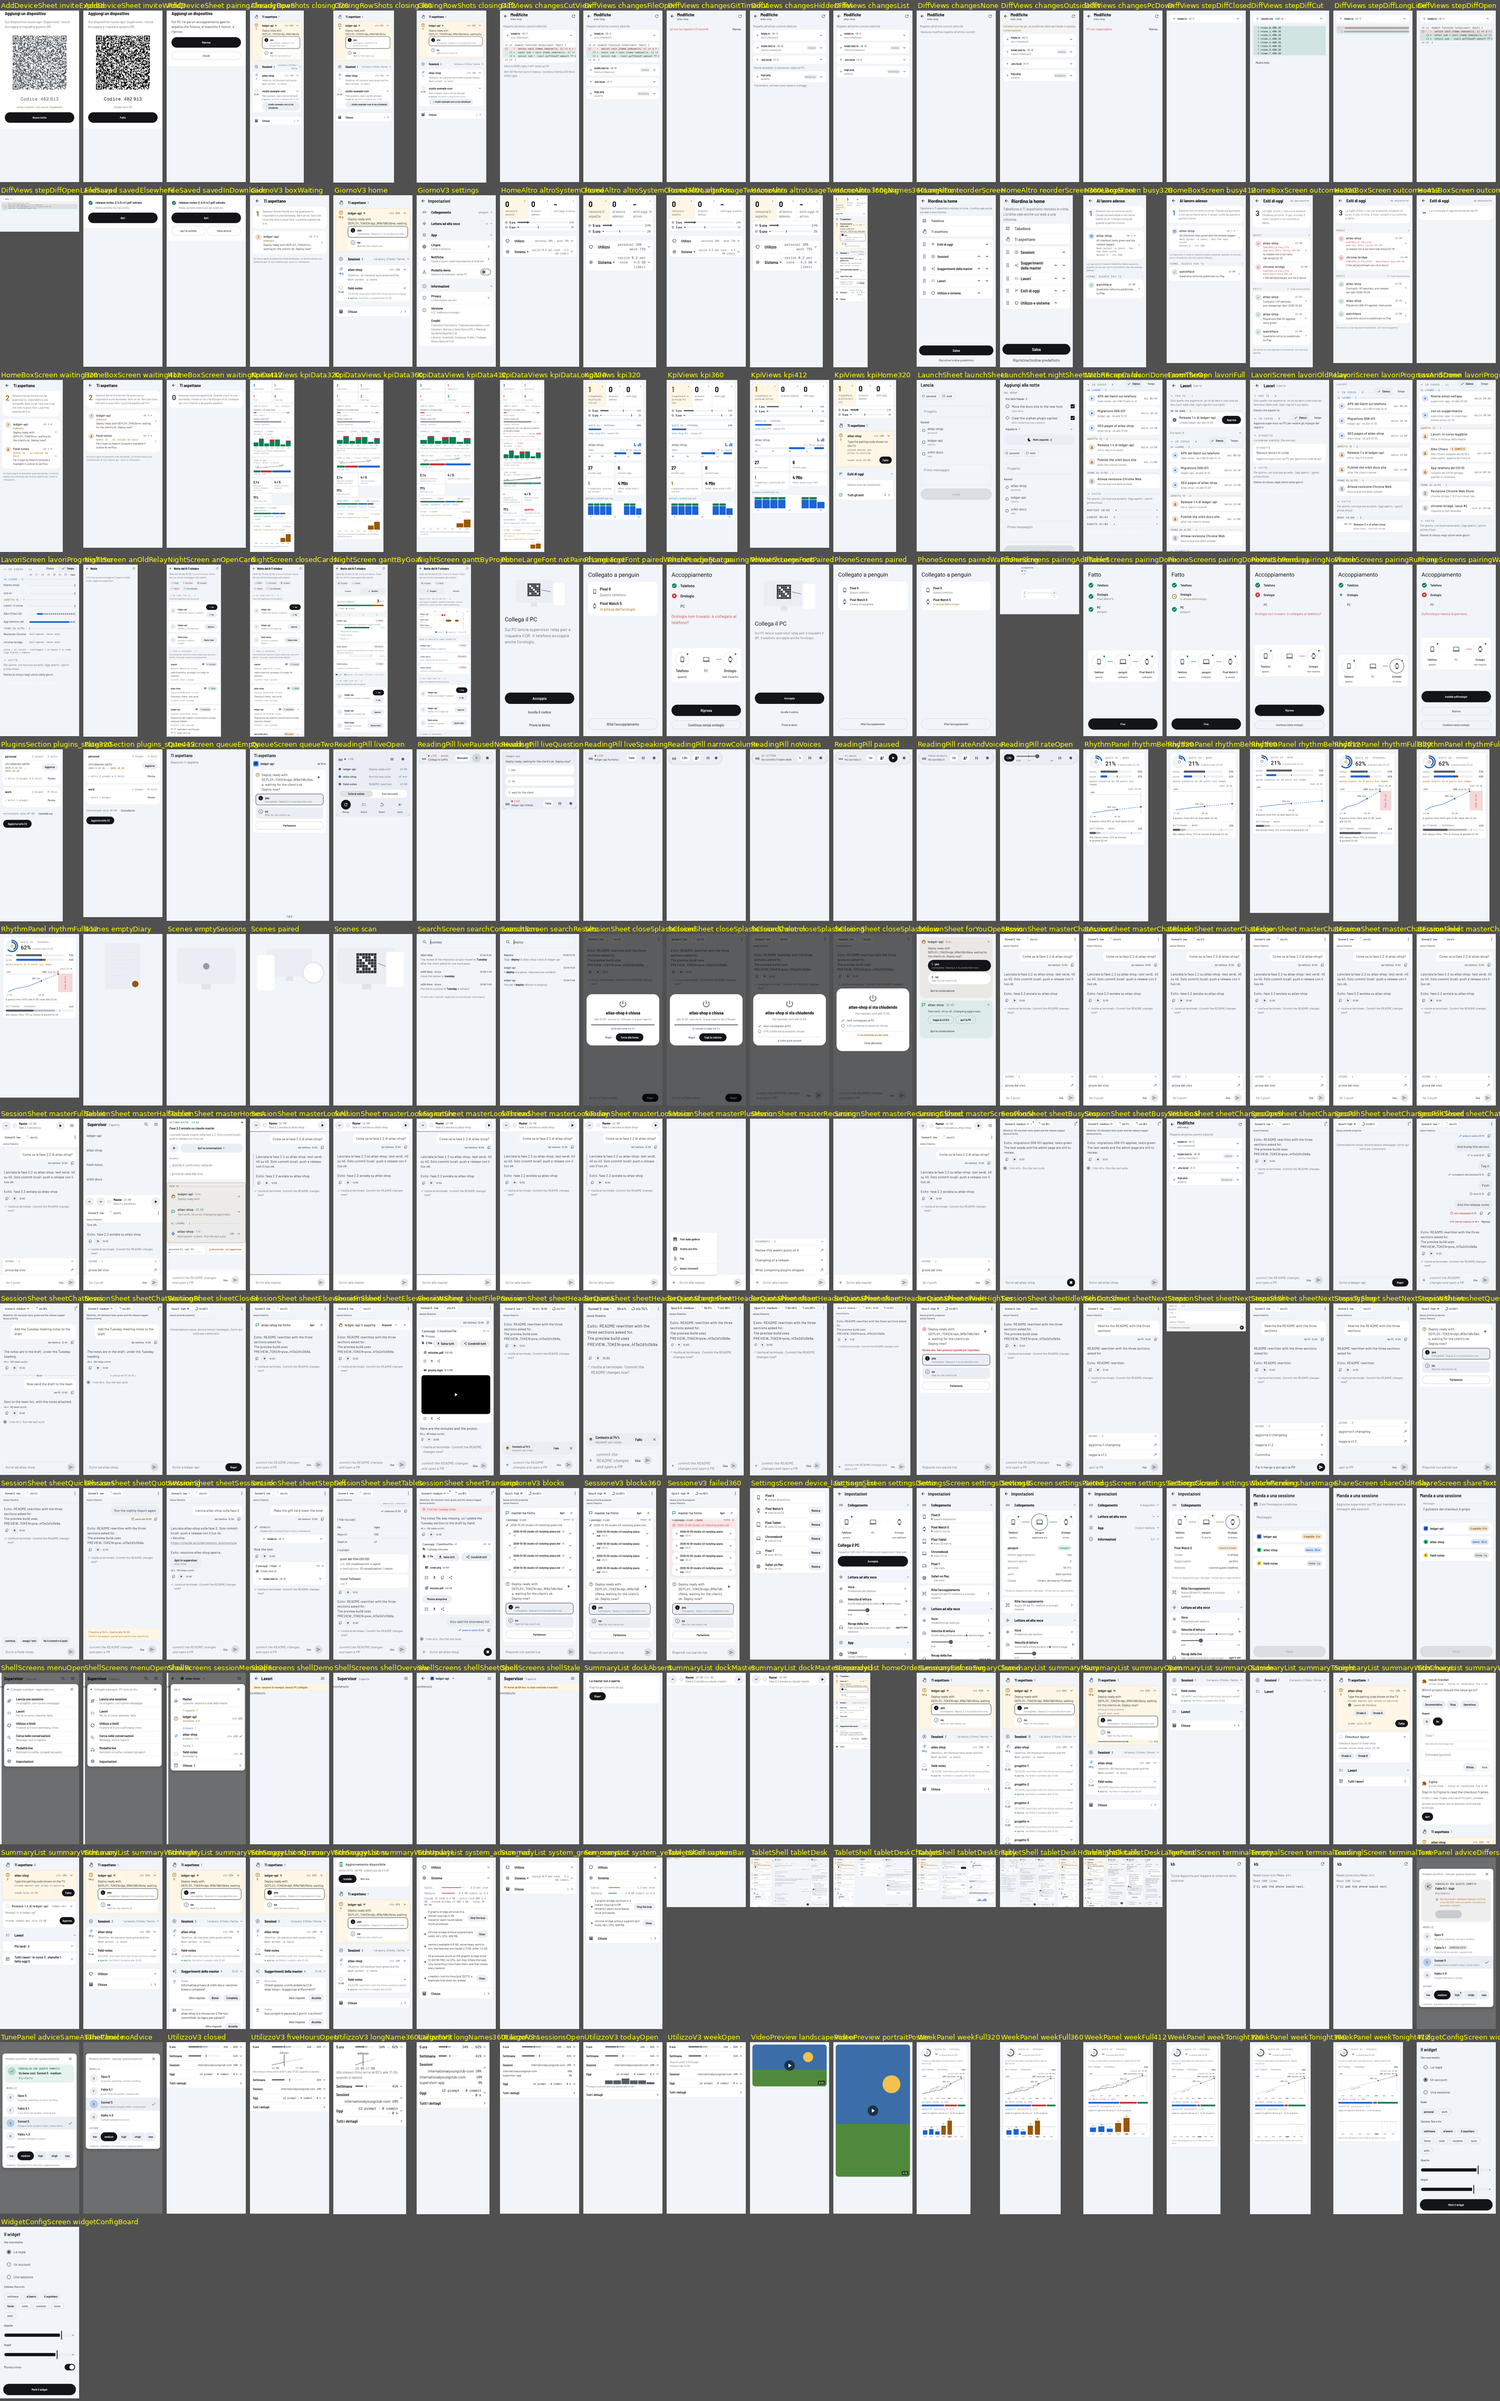
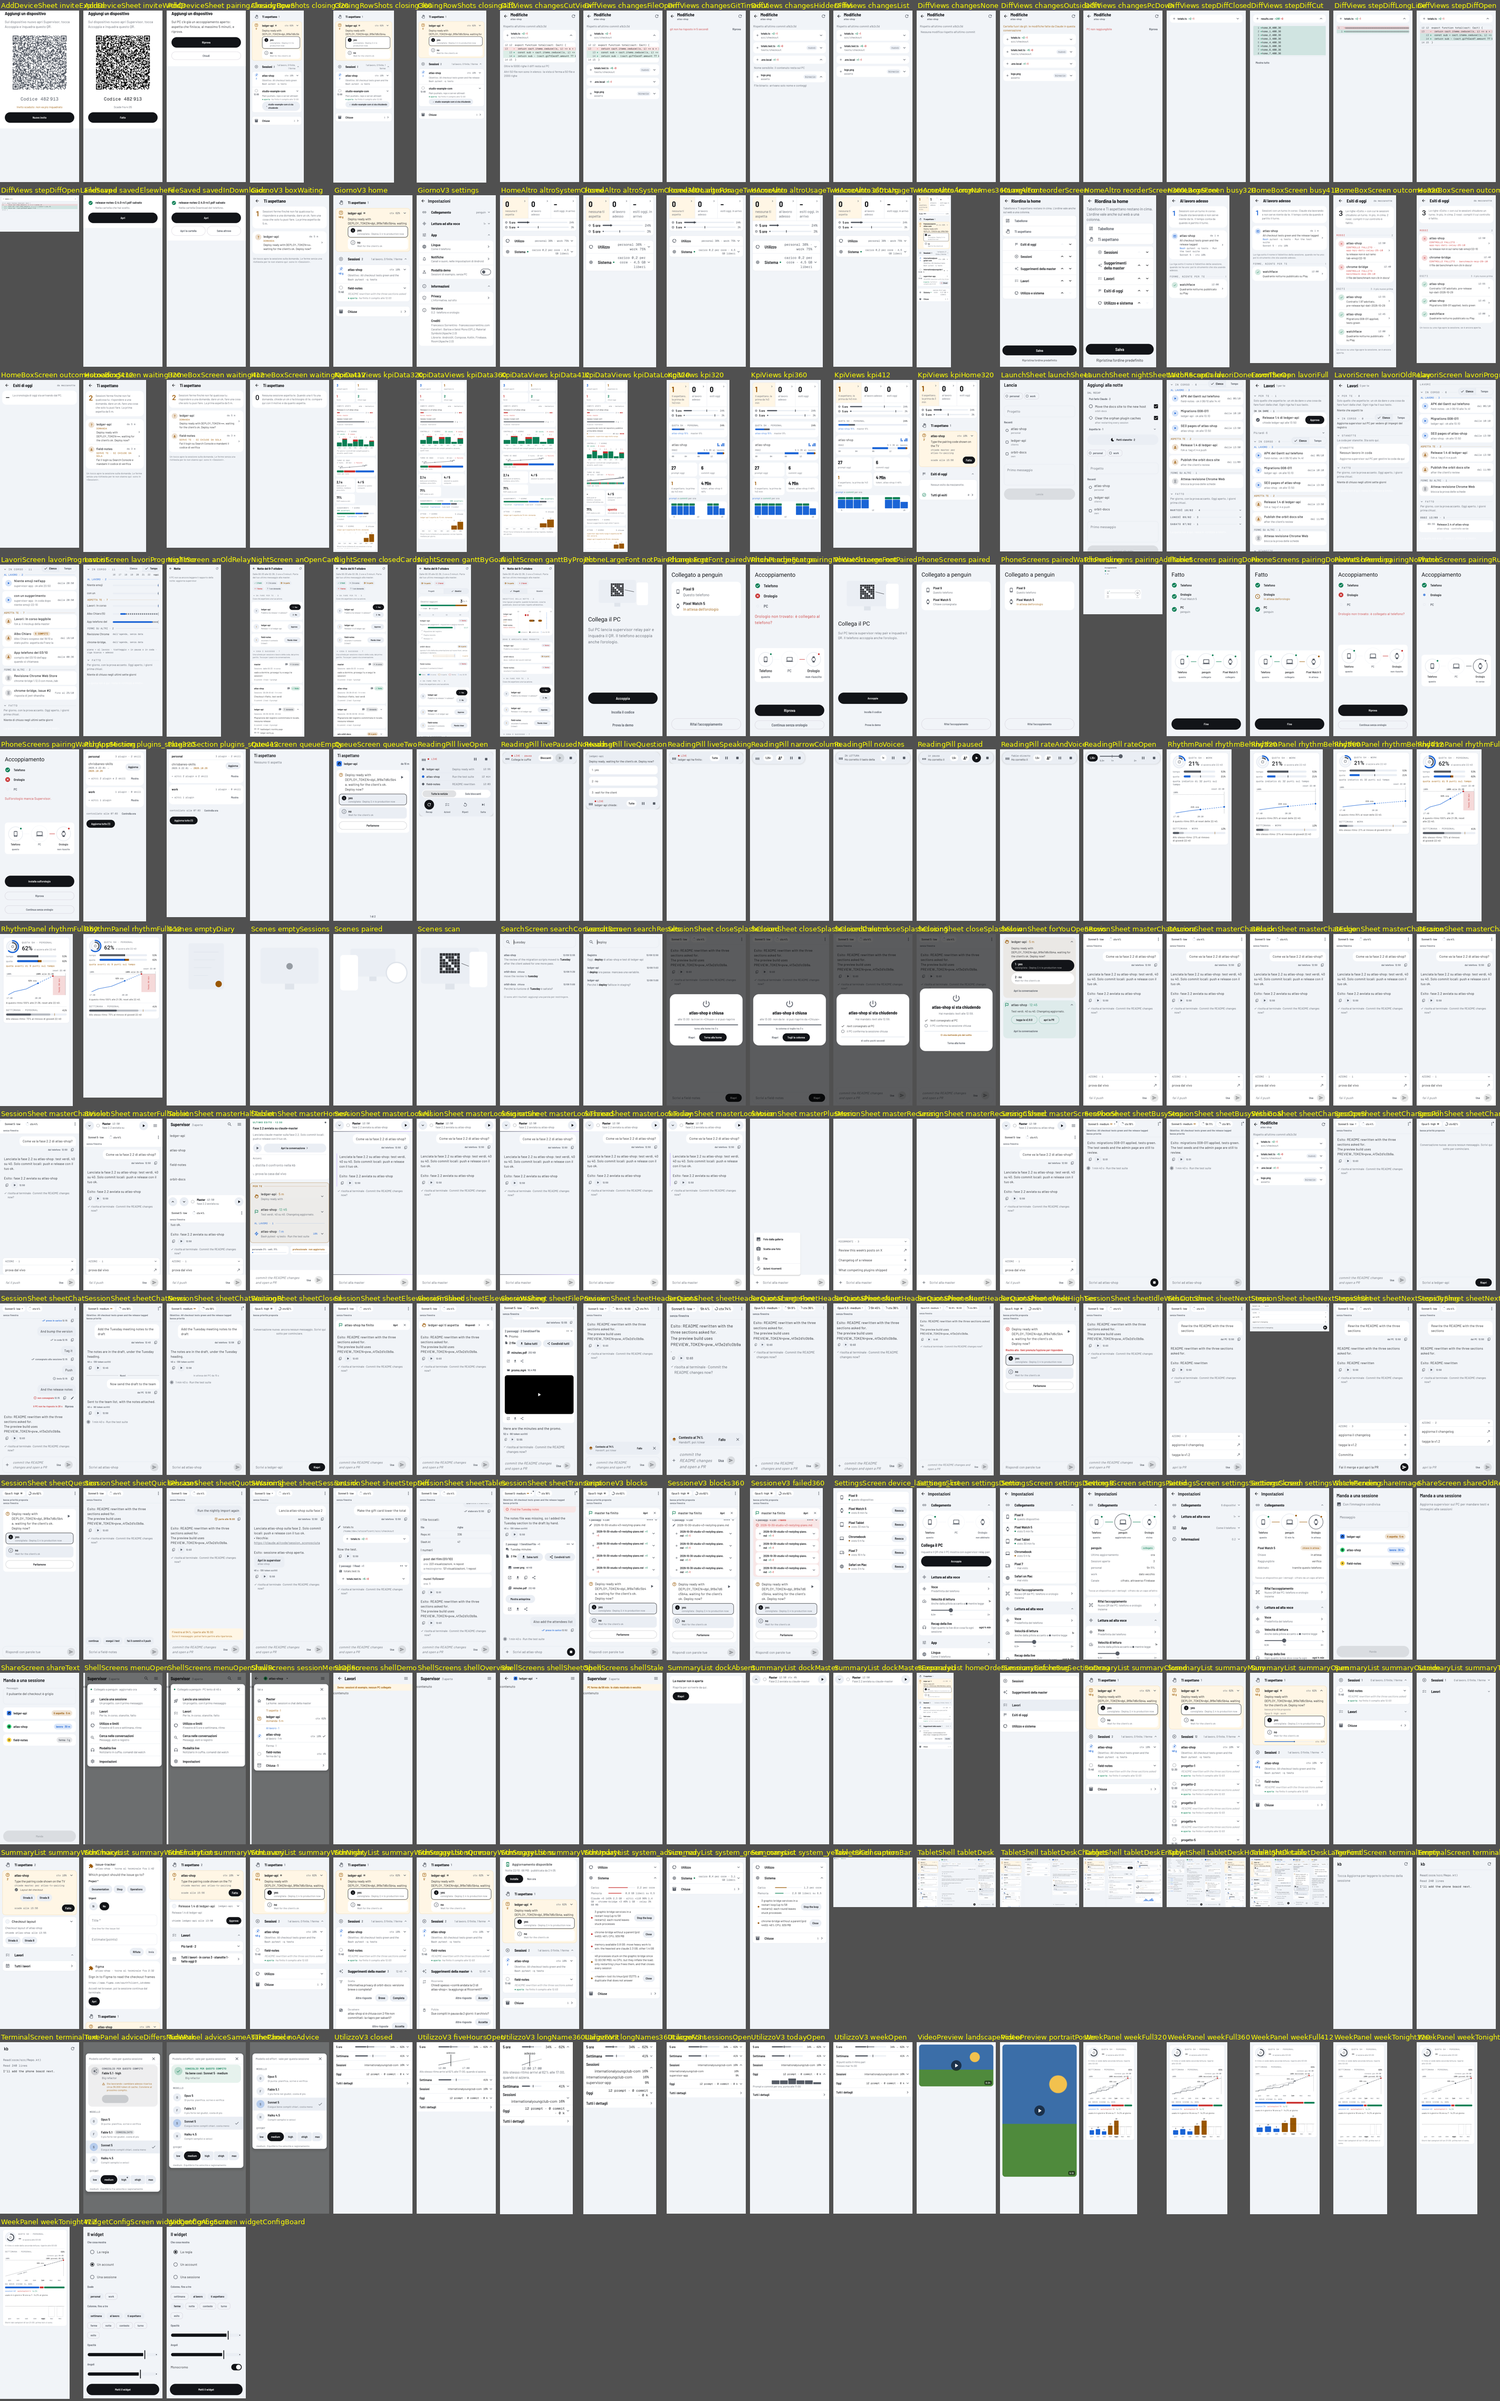
fix(phone,web): closed summaries of Work and System on one line, section arrow aligned (app-tutto-v3-30-10)

diff --git a/web/src/lib/t.ts b/web/src/lib/t.ts
@@ -144,7 +144,7 @@ const it = {
   // In corso per chi deve muoversi (mockup della master approvato da Franz il 22/10 alle 21:16).
   lavoriWorking: 'Al lavoro', lavoriWaitsYou: 'Aspetta te', lavoriOthers: 'Fermi su altri', lavoriNTasks: (n: number) => `${n} compiti`, lavoriSinceAt: (h: string) => `dalle ${h}`, lavoriSinceOn: (d: string) => `dal ${d}`, lavoriUntil: (d: string) => `fino al ${d}`,
   lavoriViewList: 'Elenco', lavoriViewTime: 'Tempo', lavoriAgendaNoDate: "dall'agenda, senza data", lavoriTimeKey: 'piena = al lavoro · tratteggio = in pausa o in coda · riga bianca = adesso',
-  lavoriOldRelay: 'Aggiorna supervisor sul PC per vedere gli impegni del registro', lavoriHomeLine: (a: number, b: number, c: number) => `Tutti i lavori · in corso ${a} · stanotte ${b} · fatto oggi ${c}`, lavoriAll: 'Tutti i lavori',
+  lavoriOldRelay: 'Aggiorna supervisor sul PC per vedere gli impegni del registro', lavoriHomeLine: (a: number, b: number, c: number) => `${a} in corso · ${b} notte · ${c} oggi`, lavoriAll: 'Tutti i lavori',
   lavoriDonePrompt: (reason: string, task: string) => `Fatto: ${reason}. Riprendi ${task}`,
   homeCommitments: 'Impegni', commitApprovedAt: (h: string) => `approvato alle ${h}`, commitAwaiting: 'aspetta il tuo ok', commitIdle: (x: string) => `fermo da ${x}`, commitYourTurn: 'tocca a te', commitTurn: (s: string) => `tocca a ${s}`, commitPaused: (r: string) => `in pausa: ${r}`, commitStalled: 'fermo', commitNext: 'Prossimo', commitCheckRed: 'ultimo controllo rosso',
   // Lo stile «Studio e Diretta» (app-home-riordino-29-10, 30/10): la colonna dei minuti, il riepilogo delle sessioni, la riga
@@ -163,7 +163,7 @@ const it = {
   deskWorkSub: (busy: number, still: number, tasks: number | null) => [busy || still ? `${busy} ${busy === 1 ? 'sessione' : 'sessioni'} al lavoro${still ? `, ${still} ${still === 1 ? 'ferma' : 'ferme'}` : ''}` : 'nessuna sessione aperta', tasks != null ? `${tasks} ${tasks === 1 ? 'compito' : 'compiti'} in corso` : null].filter(Boolean).join('; '),
   homeSessionsLine: (busy: number, finished: number, still: number) => [busy && `${busy} al lavoro`, finished && `${finished} ${finished === 1 ? 'ha finito' : 'hanno finito'}`, still && `${still} ${still === 1 ? 'ferma' : 'ferme'}`].filter(Boolean).join(', '),
   homeNightRow: (queued: number, done: number | null, total: number | null) => `${queued ? `${queued} in coda` : 'Coda vuota'}${done != null && total ? `; ieri ${done} finiti su ${total}` : ''}`,
-  homeLastAt: (h: string) => `ultimo alle ${h}`, homeEsitiLine: (n: number, h: string) => `${n} · ultimo alle ${h}`, homeEsitiRed: (n: number) => `${n} falliti`,
+  lavoriAll: 'Tutti i lavori', homeLastAt: (h: string) => `ultimo alle ${h}`, homeEsitiLine: (n: number, h: string) => `${n} · ultimo alle ${h}`, homeEsitiRed: (n: number) => `${n} falliti`,
   homeWaiting: 'Ti aspettano', homeOutcomes: 'Esiti di oggi', homeAllOutcomes: 'Tutti gli esiti', homeMoreRed: (n: number) => (n === 1 ? '1 rosso in più' : `${n} rossi in più`), tonightEmpty: 'Stanotte · 0 in coda', weekShort: 'sett.', tokensShort: (n: string) => `${n} token`, homeNight: 'Notte', homeSessions: 'Sessioni', homeUsage: 'Utilizzo', homeRecap: 'Recap', recapActions: (n: number) => `Azioni · ${n}`, recapFrom: (d: string) => `recap ${d}`.trim(),
   recapSendTitle: 'Mandare questa azione?', recapSendFromRecap: (d: string, p: string) => `Dal recap del ${d} di ${p}`, recapSendFromSession: (s: string) => `Da ${s}`,
   recapSendToSession: 'la sessione aperta sul progetto', recapSendToMaster: 'il progetto non ha una sessione aperta', recapSend: 'Manda', recapSendToMasterAgenda: 'che lo fa partire', recapSendFromAgenda: "Dall'agenda, un lavoro che può fare Claude",
@@ -542,7 +542,7 @@ const en: typeof it = {
   lavoriProofCheck: 'check green', lavoriProofFailed: 'check red', lavoriProofCancelled: 'cancelled', lavoriDoneEmpty: 'Nothing closed in the last seven days', lavoriQuotaNote: 'The quota is not here: it stays in «Usage and limits».',
   lavoriWorking: 'Working', lavoriWaitsYou: 'Waits for you', lavoriOthers: 'Blocked by others', lavoriNTasks: (n: number) => `${n} tasks`, lavoriSinceAt: (h: string) => `since ${h}`, lavoriSinceOn: (d: string) => `since ${d}`, lavoriUntil: (d: string) => `until ${d}`,
   lavoriViewList: 'List', lavoriViewTime: 'Time', lavoriAgendaNoDate: 'from the agenda, no date', lavoriTimeKey: 'solid = working · dashes = paused or queued · white line = now',
-  lavoriOldRelay: "Update supervisor on the PC to see the registry's commitments", lavoriHomeLine: (a: number, b: number, c: number) => `All the work · in progress ${a} · tonight ${b} · done today ${c}`, lavoriAll: 'All the work',
+  lavoriOldRelay: "Update supervisor on the PC to see the registry's commitments", lavoriHomeLine: (a: number, b: number, c: number) => `${a} running · ${b} tonight · ${c} today`, lavoriAll: 'All the work',
   lavoriDonePrompt: (reason: string, task: string) => `Done: ${reason}. Resume ${task}`,
   homeCommitments: 'Commitments', commitApprovedAt: (h: string) => `approved at ${h}`, commitAwaiting: 'waits for your ok', commitIdle: (x: string) => `idle for ${x}`, commitYourTurn: 'your turn', commitTurn: (s: string) => `${s}'s turn`, commitPaused: (r: string) => `paused: ${r}`, commitStalled: 'stalled', commitNext: 'Next', commitCheckRed: 'last check red',
   railSpan: (s: { n: number; unit: 'min' | 'h' | 'd' }) => (s.unit === 'min' ? `${s.n}'` : s.unit === 'h' ? `${s.n} h` : `${s.n} d`),
@@ -557,7 +557,7 @@ const en: typeof it = {
   deskWorkSub: (busy: number, still: number, tasks: number | null) => [busy || still ? `${busy} ${busy === 1 ? 'session' : 'sessions'} working${still ? `, ${still} idle` : ''}` : 'no open sessions', tasks != null ? `${tasks} ${tasks === 1 ? 'task' : 'tasks'} in progress` : null].filter(Boolean).join('; '),
   homeSessionsLine: (busy: number, finished: number, still: number) => [busy && `${busy} working`, finished && `${finished} finished`, still && `${still} idle`].filter(Boolean).join(', '),
   homeNightRow: (queued: number, done: number | null, total: number | null) => `${queued ? `${queued} queued` : 'Queue empty'}${done != null && total ? `; last night ${done} of ${total} done` : ''}`,
-  homeLastAt: (h: string) => `last at ${h}`, homeEsitiLine: (n: number, h: string) => `${n} · last at ${h}`, homeEsitiRed: (n: number) => `${n} failed`,
+  lavoriAll: 'All the work', homeLastAt: (h: string) => `last at ${h}`, homeEsitiLine: (n: number, h: string) => `${n} · last at ${h}`, homeEsitiRed: (n: number) => `${n} failed`,
   homeWaiting: 'Waiting for you', homeOutcomes: 'Outcomes today', homeAllOutcomes: 'All outcomes', homeMoreRed: (n: number) => `${n} more red`, tonightEmpty: 'Tonight · 0 queued', weekShort: 'week', tokensShort: (n: string) => `${n} tokens`, homeNight: 'Night', homeSessions: 'Sessions', homeUsage: 'Usage', homeRecap: 'Recap', recapActions: (n: number) => `Actions · ${n}`, recapFrom: (d: string) => `recap ${d}`.trim(),
   recapSendTitle: 'Send this action?', recapSendFromRecap: (d: string, p: string) => `From the ${d} recap of ${p}`, recapSendFromSession: (s: string) => `From ${s}`,
   recapSendToSession: 'the session open on the project', recapSendToMaster: 'the project has no open session', recapSend: 'Send', recapSendToMasterAgenda: 'which starts it', recapSendFromAgenda: 'From the agenda, work Claude can do',

diff --git a/mobile/src/test/kotlin/it/pixelbox/cmwatch/mobile/HomeAltroTest.kt b/mobile/src/test/kotlin/it/pixelbox/cmwatch/mobile/HomeAltroTest.kt
@@ -21,7 +21,7 @@ class HomeAltroTest {
     private val st = ContractJson.decodeState(File("../contract/state-2-idle.json").readText()).let { it.copy(sessions = emptyList(), approvals = emptyList()) }
     private val system = SystemStatus(at = st.ts, cores = 8, load1 = 2.0, loadPerCore = 0.2, memTotalMb = 16000, memAvailableMb = 4600, level = "green", loadLevel = "green", memLevel = "green")
 
-    private fun shot() = paparazzi.snapshot {
+    private fun shot(st: it.pixelbox.cmwatch.contract.State = this.st) = paparazzi.snapshot {
         CmPhoneTheme(still = true) {
             SummaryList(Summary.build(st, emptyList(), emptyList(), st.ts, ZoneId.of("Europe/Rome"), emptySet()), {}, { _, _ -> }, { _, _ -> }, {}, {}, now = st.ts, usage = { Text("") }, system = system, kpiState = st)
         }
@@ -54,7 +54,7 @@ class HomeAltroTest {
     @Test fun altroSystemClosed() = shot()
 
     /** Titoli liberi e blocco insieme: le frecce sulla stessa verticale (Franz 31/10 01:14). */
-    @Test fun altroUsageTwoAccountsArrowsAligned() = shot()
+    @Test fun altroUsageTwoAccountsArrowsAligned() = shot(ContractJson.decodeState(File("../contract/state-2-idle.json").readText()))
 
     /** Utilizzo con due account (state-2-idle): il nome intero, mai tagliato in un'altra parola (master 30/10 16:42). */
     @Test fun altroUsageTwoAccounts() = shot()

diff --git a/web/src/lib/system.ts b/web/src/lib/system.ts
@@ -17,8 +17,8 @@ const size = (mb: number, lang: Lang) => (mb < 1024 ? `${Math.round(mb)} MB` : `
 /** La riga dell'intestazione: carico per core e memoria libera; il totale sta nella scheda aperta (a 320 dp andava a capo). */
 export const summaryLine = (s: SystemStatus, lang: Lang): string =>
   lang === 'it'
-    ? `carico ${num(s.load_per_core, lang)} per core · ${num(s.mem_available_mb / 1024, lang)} GB liberi`
-    : `load ${num(s.load_per_core, lang)} per core · ${num(s.mem_available_mb / 1024, lang)} GB free`
+    ? `carico ${num(s.load_per_core, lang)} · ${num(s.mem_available_mb / 1024, lang)} GB`
+    : `load ${num(s.load_per_core, lang)} · ${num(s.mem_available_mb / 1024, lang)} GB`
 
 const GROUP: Record<Lang, Record<string, string>> = {
   it: { claude: 'Claude', chrome_bridge: 'chrome-bridge', relay: 'relay', other: 'altri' },

diff --git a/mobile/src/main/kotlin/it/pixelbox/cmwatch/mobile/ui/SummaryList.kt b/mobile/src/main/kotlin/it/pixelbox/cmwatch/mobile/ui/SummaryList.kt
@@ -400,7 +400,7 @@ fun SummaryList(
                                 }
                             }
                             if (foryou != null) V3Row(first, onLavori, { Icon(androidx.compose.material.icons.Icons.Outlined.EventNote, null, tint = V3.Tx2, modifier = Modifier.size(22.dp)) }, { Icon(Icons.AutoMirrored.Rounded.KeyboardArrowRight, null, tint = V3.Tx3) }) {
-                                Text(lavoriLine ?: stringResource(R.string.lavori_all), style = V3.Name)
+                                Text(stringResource(R.string.lavori_all) + (lavoriLine?.let { " · $it" } ?: ""), style = V3.Name)
                             }
                         }
                     }

diff --git a/mobile/src/main/kotlin/it/pixelbox/cmwatch/mobile/ui/HomeV3.kt b/mobile/src/main/kotlin/it/pixelbox/cmwatch/mobile/ui/HomeV3.kt
@@ -165,7 +165,7 @@ internal fun V3Section(title: String, icon: ImageVector, count: String? = null, 
         Box(Modifier.weight(1f).padding(start = 12.dp), contentAlignment = Alignment.CenterEnd) {
             right?.let { Text(it, style = V3.Small, textAlign = androidx.compose.ui.text.style.TextAlign.End) }
         }
-        if (open != null) Icon(if (open) Icons.Rounded.ExpandLess else Icons.Rounded.ExpandMore, null, tint = V3.Tx3, modifier = Modifier.padding(start = 6.dp).size(20.dp))
+        if (open != null) Icon(if (open) Icons.Rounded.ExpandLess else Icons.Rounded.ExpandMore, null, tint = V3.Tx3, modifier = Modifier.padding(start = 6.dp).size(24.dp))
     }
 }
 

diff --git a/web/src/lib/Home.svelte b/web/src/lib/Home.svelte
@@ -458,7 +458,7 @@
       {/if}
     {/each}
     {#if fy && !part}
-      <button class="all" onclick={onLavori}><span class="wic"><span class="ms">event_list</span></span><span class="otext"><b>{lavoriLine}</b></span>
+      <button class="all" onclick={onLavori}><span class="wic"><span class="ms">event_list</span></span><span class="otext"><b>{t.lavoriAll ? `${t.lavoriAll} · ${lavoriLine}` : lavoriLine}</b></span>
         <span class="ms chevr">chevron_right</span></button>
     {/if}
   {/if}

diff --git a/docs/v3-giorno.md b/docs/v3-giorno.md
@@ -32,6 +32,7 @@ Tutti gli snapshot del telefono col giorno: `./gradlew :mobile:recordPaparazziGi
 | HomeAltro · altroSystemClosed360LargeFont | ok |
 | HomeAltro · altroUsageTwoAccounts | ok |
 | HomeAltro · altroUsageTwoAccounts360LargeFont | ok |
+| HomeAltro · altroUsageTwoAccountsArrowsAligned | ok |
 | HomeAltro · longNames360LargeFont | ok |
 | HomeAltro · reorderScreen | ok |
 | HomeAltro · reorderScreen360LargeFont | ok |
@@ -177,6 +178,7 @@ Tutti gli snapshot del telefono col giorno: `./gradlew :mobile:recordPaparazziGi
 | SummaryList · dockMaster | ok |
 | SummaryList · dockMasterExpanded | ok |
 | SummaryList · homeOrderSessionsBeforeSuggestions | ok |
+| SummaryList · homeSectionDrag | ok |
 | SummaryList · summaryClosed | ok |
 | SummaryList · summaryMany | ok |
 | SummaryList · summaryOpen | ok |
